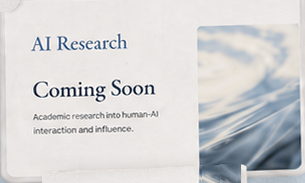
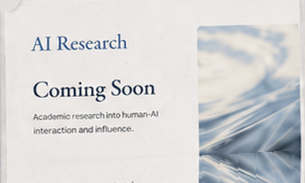
Paper sheets are their own layer; kill the baked line on the Magnus card
Each project now has a separate paper element cut from the reference,
sitting under its card and covering the baked card entirely, so nothing
underneath can peek through; the sheets lift with their card on hover
and can be moved or resized independently via PROJECTS[].paper.

The black dashed line across the Magnus card was the baked label's
bright top edge, left behind because the card's label patch started
below it. Both mock cards are rebuilt with the patch beginning above
that edge, and the labels and pins restack over the new paper layer.

Claude-Session: https://claude.ai/code/session_01HwHnB6ZvdvjAvLg4jAqUHh

Changed region(s): [[0.6492, 0.8197, 1.0, 1.0], [0.0, 0.9563, 0.1475, 1.0], [0.4131, 0.9836, 0.4426, 1.0]]

diff --git a/index.html b/index.html
@@ -154,17 +154,22 @@ nav,nav a,nav .mono img{transition:color .35s ease,filter .35s ease}
 .wk>img{width:100%;height:100%;display:block}
 /* cards are straight high-res PNGs; tilt, corners, and shadow are
    live CSS so nothing is baked or resampled */
-/* the rounded corners come from a soft-edged mask rather than a hard
-   overflow clip, so a tilted card's borders antialias instead of
-   stair-stepping; the drop-shadow follows the masked shape */
+/* each project sits on its own paper sheet (a separate element), with
+   the screenshot card on top; corners come from border-radius plus a
+   drop-shadow rather than a hard clip, so tilted edges antialias */
+.wk-paper{transform:rotate(var(--ang,0deg));
+  filter:drop-shadow(0 3px 7px rgba(50,60,80,.18))}
+.wk-paper img{width:100%;height:100%;object-fit:cover;display:block;
+  border-radius:inherit}
 .wk-card{transform:rotate(var(--ang,0deg));
-  filter:drop-shadow(0 4px 9px rgba(50,60,80,.22))}
+  filter:drop-shadow(0 2px 4px rgba(50,60,80,.16))}
 .wk-card img{width:100%;height:100%;object-fit:cover;display:block;
   border-radius:inherit}
 .wk-card a,.wk-label a{position:absolute;inset:0;display:block;color:inherit;text-decoration:none}
 @media (prefers-reduced-motion:no-preference){
-  .wk-card{transition:transform .3s cubic-bezier(.3,.8,.3,1)}
-  .wk-card:hover,.wk-card:focus-within{transform:rotate(var(--ang,0deg)) translateY(-5px)}
+  .wk-card,.wk-paper{transition:transform .3s cubic-bezier(.3,.8,.3,1)}
+  .wk-card:hover,.wk-card:focus-within,
+  .wk-paper.lift{transform:rotate(var(--ang,0deg)) translateY(-5px)}
   .wk-label a{transition:transform .3s cubic-bezier(.3,.8,.3,1)}
   .wk-label a:hover,.wk-label a:focus-visible{transform:translateY(-3px)}
 }
@@ -749,19 +754,19 @@ const WORK_LAYOUT = {
   "wk-where":   {x: 586, y: 886, w:  500, h:  48, z: 2},
 };
 const PROJECTS = [
-  {id:"cuelens",    href:"https://cuelensai.vercel.app/", img:"assets/work/card-cuelens.png",    card:{x: 297.0, y: 229.7, w: 436, h: 242, ang: 2.3,  rad: 14}, pin:{x: 308, y: 222},
+  {id:"cuelens",    paper:{x: 287.0, y: 219.7, w: 456, h: 262, rad: 20}, href:"https://cuelensai.vercel.app/", img:"assets/work/card-cuelens.png",    card:{x: 297.0, y: 229.7, w: 436, h: 242, ang: 2.3,  rad: 14}, pin:{x: 308, y: 222},
    label:{x: 417, y: 462, w: 200, h: 88},
    title:"CueLens", desc:"AI-powered design analysis<br>to understand user intent."},
-  {id:"magnus",     img:"assets/work/card-magnus.png",     card:{x: 879.4, y: 236.1, w: 443, h: 254, ang: 2.26, rad: 12}, pin:{x: 890, y: 230},
+  {id:"magnus",     paper:{x: 869.4, y: 226.1, w: 463, h: 274, rad: 18}, img:"assets/work/card-magnus.png",     card:{x: 879.4, y: 236.1, w: 443, h: 254, ang: 2.26, rad: 12}, pin:{x: 890, y: 230},
    label:{x: 955, y: 462, w: 212, h: 90},
    title:"Magnus United<br>Website Redesign", desc:"Coming Soon"},
-  {id:"brainage",   href:"https://brainage-calculator.vercel.app/", img:"assets/work/card-brainage.png",   card:{x: 235.2, y: 595.7, w: 341, h: 190, ang: 1.03, rad: 10}, pin:{x: 236, y: 593},
+  {id:"brainage",   paper:{x: 225.2, y: 585.7, w: 361, h: 210, rad: 16}, href:"https://brainage-calculator.vercel.app/", img:"assets/work/card-brainage.png",   card:{x: 235.2, y: 595.7, w: 341, h: 190, ang: 1.03, rad: 10}, pin:{x: 236, y: 593},
    label:{x: 299, y: 782, w: 221, h: 86},
    title:"Brain Age Calculator", desc:"Quantifying brain wellness<br>using MRI and neuroscience."},
-  {id:"airesearch", img:"assets/work/card-airesearch.png", card:{x: 640.7, y: 616.4, w: 305, h: 183, ang: 3.2,  rad: 10}, pin:{x: 650, y: 602},
+  {id:"airesearch", paper:{x: 630.7, y: 606.4, w: 325, h: 203, rad: 16}, img:"assets/work/card-airesearch.png", card:{x: 640.7, y: 616.4, w: 305, h: 183, ang: 3.2,  rad: 10}, pin:{x: 650, y: 602},
    label:{x: 687, y: 787, w: 183, h: 70},
    title:"AI Research", desc:"Coming Soon"},
-  {id:"magnusmap",  href:"https://aashvigeddam.github.io/magnus-map/", img:"assets/work/card-magnusmap.png",  card:{x:1013.2, y: 579.6, w: 399, h: 203, ang: -0.36,rad: 10}, pin:{x:1017, y: 585},
+  {id:"magnusmap",  paper:{x:1003.2, y: 569.6, w: 419, h: 223, rad: 16}, href:"https://aashvigeddam.github.io/magnus-map/", img:"assets/work/card-magnusmap.png",  card:{x:1013.2, y: 579.6, w: 399, h: 203, ang: -0.36,rad: 10}, pin:{x:1017, y: 585},
    label:{x:1107, y: 776, w: 215, h: 86},
    title:"Magnus Map", desc:"Real-time geospatial mapping<br>and coordination platform."},
 ];
@@ -779,27 +784,36 @@ if (workCanvas) {
       (aria ? ' aria-label="' + aria + '"' : '') + '>' + inner + '</a>'
     : inner;
   for (const pr of PROJECTS) {
+    const paper = document.createElement("div");
+    paper.className = "wk wk-paper"; paper.id = "wk-paper-" + pr.id;
+    Object.assign(paper.style, {left:pr.paper.x+"px", top:pr.paper.y+"px",
+      width:pr.paper.w+"px", height:pr.paper.h+"px",
+      borderRadius:pr.paper.rad+"px", zIndex:1});
+    paper.style.setProperty("--ang", pr.card.ang+"deg");
+    paper.innerHTML = '<img src="assets/work/paper-' + pr.id + '.png" alt="">';
     const card = document.createElement("div");
     card.className = "wk wk-card"; card.id = "wk-card-" + pr.id;
     Object.assign(card.style, {left:pr.card.x+"px", top:pr.card.y+"px",
       width:pr.card.w+"px", height:pr.card.h+"px",
-      borderRadius:pr.card.rad+"px", zIndex:1});
+      borderRadius:pr.card.rad+"px", zIndex:2});
     card.style.setProperty("--ang", pr.card.ang+"deg");
     card.innerHTML = wkLink(pr, '<img src="' + pr.img + '" alt="">',
       pr.title.replace(/<br>/g," ") + " — open site");
     const pin = document.createElement("div");
     pin.className = "wk wk-pin"; pin.id = "wk-pin-" + pr.id;
     Object.assign(pin.style, {left:(pr.pin.x-14.5)+"px", top:(pr.pin.y-14.5)+"px",
-      width:"29px", height:"29px", zIndex:3});
+      width:"29px", height:"29px", zIndex:4});
     pin.innerHTML = '<img src="assets/work/pin.png" alt="">';
     const label = document.createElement("div");
     label.className = "wk wk-label"; label.id = "wk-label-" + pr.id;
     Object.assign(label.style, {left:pr.label.x+"px", top:pr.label.y+"px",
-      width:pr.label.w+"px", height:pr.label.h+"px", zIndex:2});
+      width:pr.label.w+"px", height:pr.label.h+"px", zIndex:3});
     label.innerHTML = wkLink(pr,
       '<img class="paper" src="assets/work/label.png" alt="">' +
       '<div class="lt">' + pr.title + '</div><div class="ld">' + pr.desc + '</div>');
-    workCanvas.append(card, pin, label);
+    card.addEventListener("mouseenter", () => paper.classList.add("lift"));
+    card.addEventListener("mouseleave", () => paper.classList.remove("lift"));
+    workCanvas.append(paper, card, pin, label);
   }
 }
 
